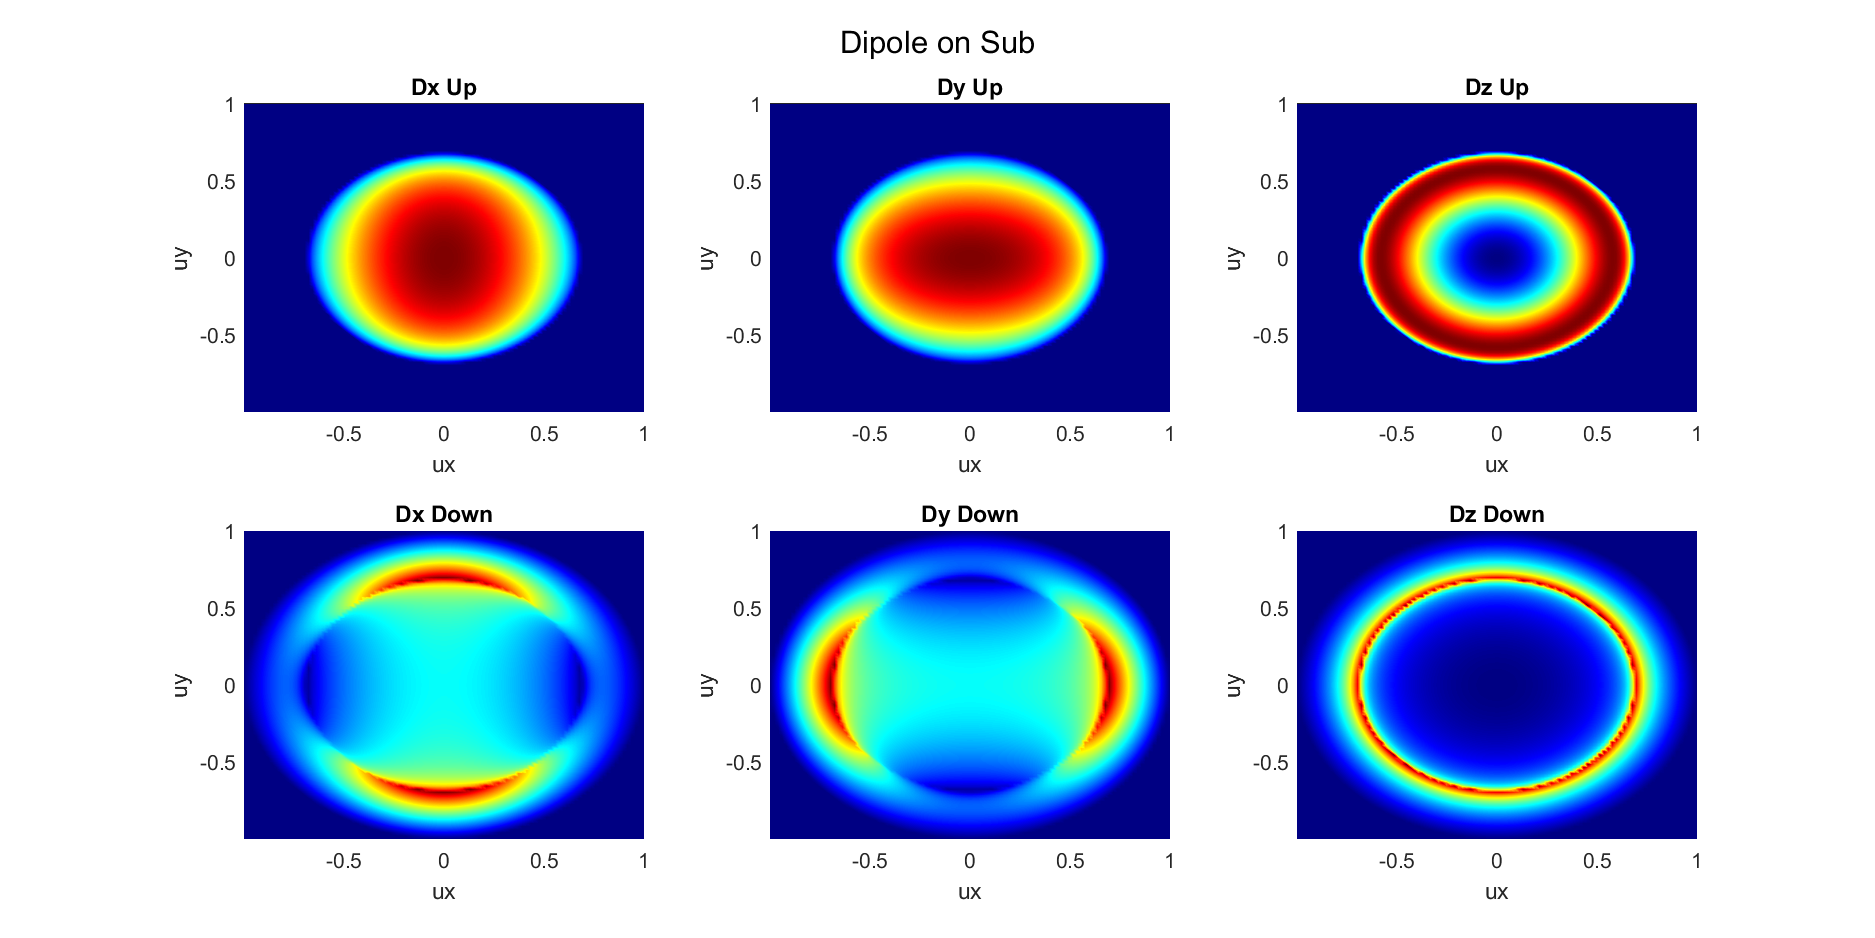
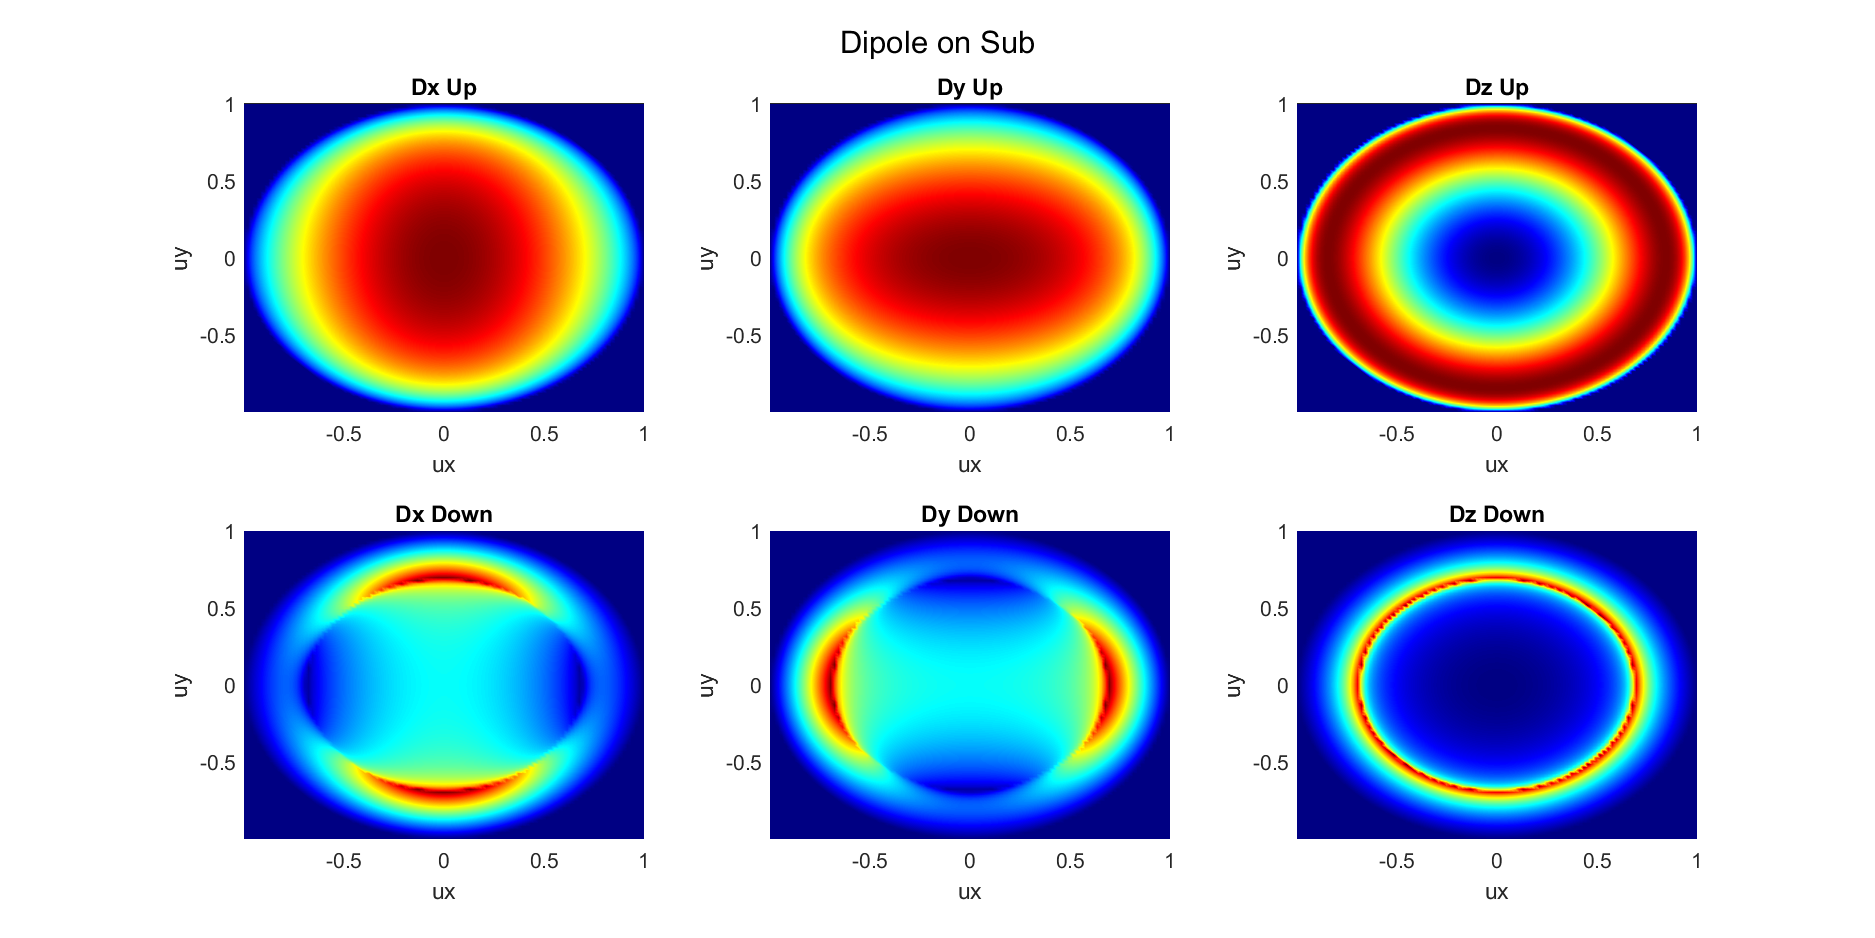
更改了NA的定义，具有默认参数功能

Changed region(s): [[0.6805, 0.0928, 0.928, 0.4638], [0.4021, 0.0928, 0.6496, 0.4638], [0.1237, 0.0928, 0.3403, 0.4638]]

diff --git a/StructureReSet.m b/StructureReSet.m
@@ -1,23 +1,34 @@
 function DinLayerRever=StructureReSet(DinLayer)
-	DinLayerRever=DinLayer;
-	DinLayerRever.nUp=DinLayer.nDn;
-	DinLayerRever.nDn=DinLayer.nUp;
+    DinLayerRever=DinLayer;
+    DinLayerRever.nUp=DinLayer.nDn;
+    DinLayerRever.nDn=DinLayer.nUp;
 
     
-	for l=1:DinLayerRever.num_dl
-	DinLayerRever.dl(DinLayerRever.num_dl-l+1) = -DinLayer.dl(l);
+    for l=1:DinLayerRever.num_dl
+        DinLayerRever.dl(DinLayerRever.num_dl-l+1) = -DinLayer.dl(l);
     end
+    
     for l=1:DinLayerRever.num_layer
-    DinLayerRever.Eplist(DinLayerRever.num_layer-l+1) = DinLayer.Eplist(l);
+        DinLayerRever.Eplist(DinLayerRever.num_layer-l+1) = DinLayer.Eplist(l);
     end
     
-	DinLayerRever.POSD = DinLayerRever.dl(DinLayerRever.nDn+1) - DinLayerRever.dis;
-
+    DinLayerRever.POSD = DinLayerRever.dl(DinLayerRever.nDn+1) - DinLayerRever.dis;
+    
+    if DinLayer.NA==sqrt(DinLayer.Eplist(end))
+        DinLayerRever.NA=sqrt(DinLayerRever.Eplist(end));
+    end
+    
+    DinLayerRever.k0NA= DinLayerRever.k0 * DinLayerRever.NA;
     DinLayerRever.kl = DinLayerRever.k0 * sqrt(DinLayerRever.Eplist);
     DinLayerRever.ke=DinLayerRever.k0*sqrt(DinLayerRever.Eplist(DinLayerRever.num_layer));
     
-
-	% The Z component of the wave vector
+    % Reset the kx,ky
+    DinLayerRever.kx=DinLayer.kx/DinLayer.k0NA*DinLayerRever.k0NA;
+    DinLayerRever.ky=DinLayer.ky/DinLayer.k0NA*DinLayerRever.k0NA;
+    DinLayerRever.kx_grid=DinLayer.kx_grid/DinLayer.k0NA*DinLayerRever.k0NA;
+    DinLayerRever.ky_grid=DinLayer.ky_grid/DinLayer.k0NA*DinLayerRever.k0NA;
+    
+    % The Z component of the wave vector
     DinLayerRever.klz = zeros(DinLayerRever.num_kx, DinLayerRever.num_ky, DinLayerRever.num_layer);
     DinLayerRever.theta = zeros(DinLayerRever.num_kx, DinLayerRever.num_ky, DinLayerRever.num_layer);
     DinLayerRever.krho_grid=sqrt(DinLayerRever.kx_grid.^2+DinLayerRever.ky_grid.^2);
@@ -26,5 +37,5 @@ function DinLayerRever=StructureReSet(DinLayer)
         DinLayerRever.theta(:, :, l) = asin(DinLayerRever.krho_grid./DinLayerRever.kl(l));
     end
 
-	DinLayerRever.thetaUp=DinLayerRever.theta(:,:,DinLayerRever.num_layer);
+    DinLayerRever.thetaUp=DinLayerRever.theta(:,:,DinLayerRever.num_layer);
 end

diff --git a/BasicStructureSet.m b/BasicStructureSet.m
@@ -12,7 +12,8 @@ nSub=1.4564;
 DinLayer.c = 3e8;
 DinLayer.WL0 = 655e-9;
 
-DinLayer.NA=nSub;
+%NA=1.4; %If this line has been commented, the NA will be corresponding
+%refractive index
 
 DinLayer.nUp = 1;
 DinLayer.nDn = 1;
@@ -46,6 +47,10 @@ DinLayer.Eplist = zeros(DinLayer.num_layer,1);
 DinLayer.Eplist(3) = 1;
 DinLayer.Eplist(2) = 1;
 DinLayer.Eplist(1) = nSub^2;
+
+if exist('NA','var') == 0
+DinLayer.NA=sqrt(DinLayer.Eplist(end));
+end
 
 DinLayer.num_kx = 100;
 DinLayer.num_ky = 100;
